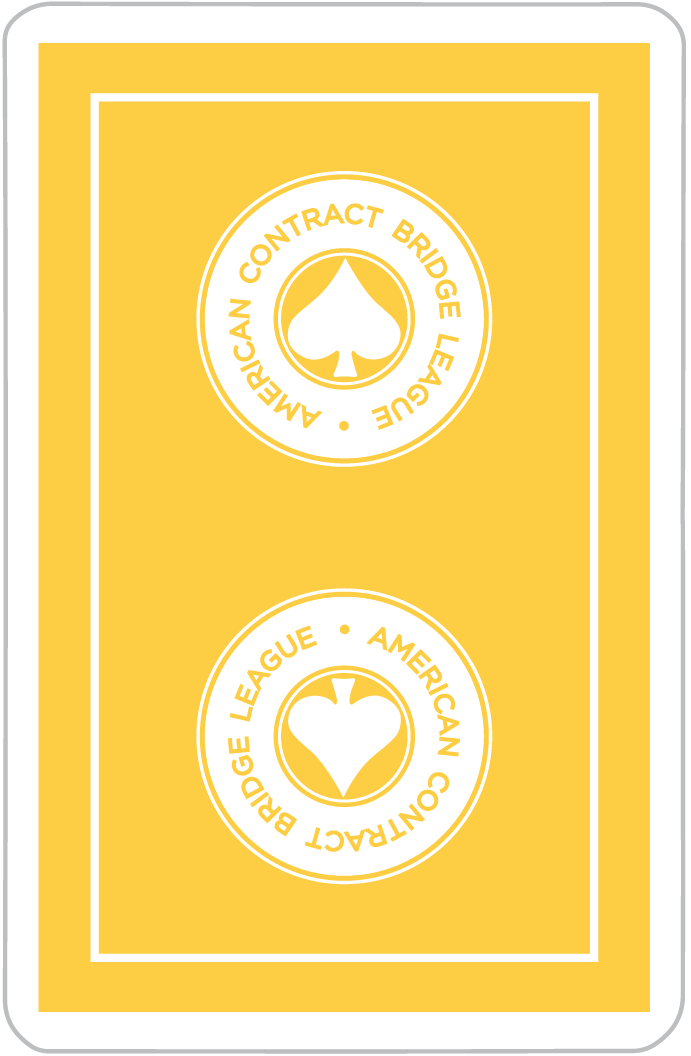
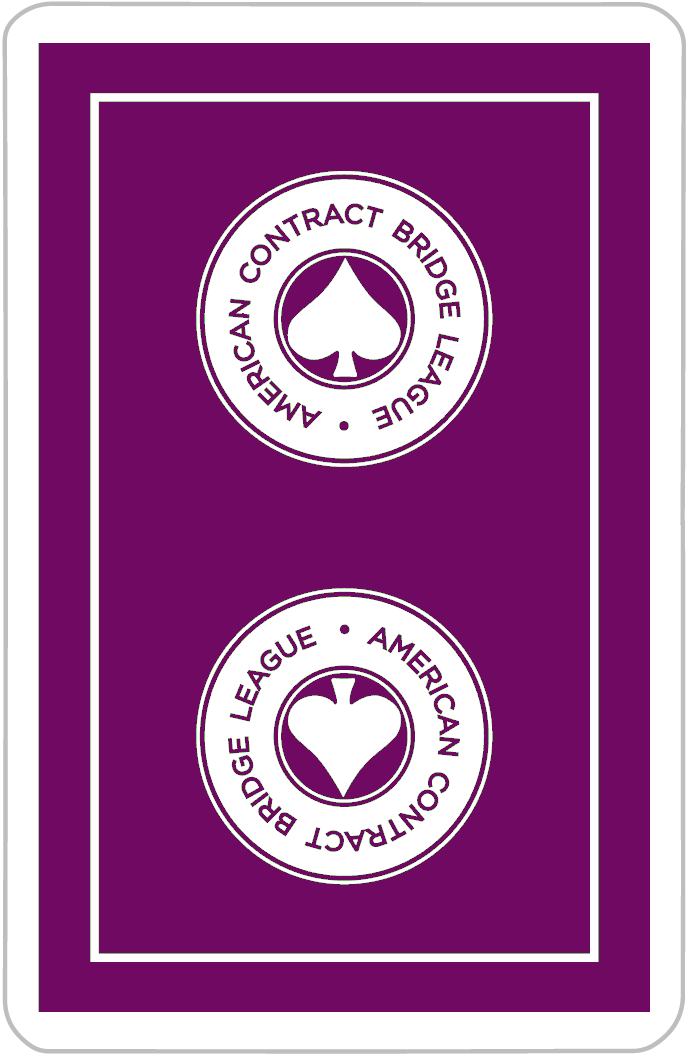
removed a bug + changed card colour scheme

diff --git a/index.html b/index.html
@@ -89,7 +89,7 @@
   </div>
 
 
-  <div class="col-1" id="money"><button type="button" name="button"  class="btn btn-outline-light btn-lg bb bb1"   onclick="confirm()">Confirm</button></div>
+  <div class="col-1" id="money"><button type="button" name="button"  class="btn btn-outline-light btn-lg bb bb1"   onclick="confirm2()">Confirm</button></div>
   <div class="col-1" id="money">
 
     <p class="total">Total money: $250</p>
@@ -99,7 +99,7 @@
  </div> </div>
 
 
-    <button type="button" name="button"  class="btn btn-dark btn-lg newgame" onclick="NewGame(event)" >New Game</button>
+    <button type="button" name="button"  class="btn btn-dark btn-lg newgame" onclick="NewGame4()" >New Game</button>
   </div>
 
   <div class="Footer">

diff --git a/index.js b/index.js
@@ -144,13 +144,16 @@ function newgamez2() {
 }
 
 //confirmation of new game, removes money and runs newgamez script
-function NewGame() {
+function NewGame4() {
+
   var r = confirm("Are you certain you want to start a new game?");
   if (r == true) {
     document.querySelector(".total").innerHTML = "Total money: $250"
     document.querySelector(".current").innerHTML = "Current bet: $0"
     money = 250
     newgamez()
+  
+
   }
 }
 
@@ -186,7 +189,7 @@ if (conf==0){
   //     }}
     }
 ;
-function confirm(){
+function confirm2(){
   if (conf<1){
   newgamez2()
   conf=1}
